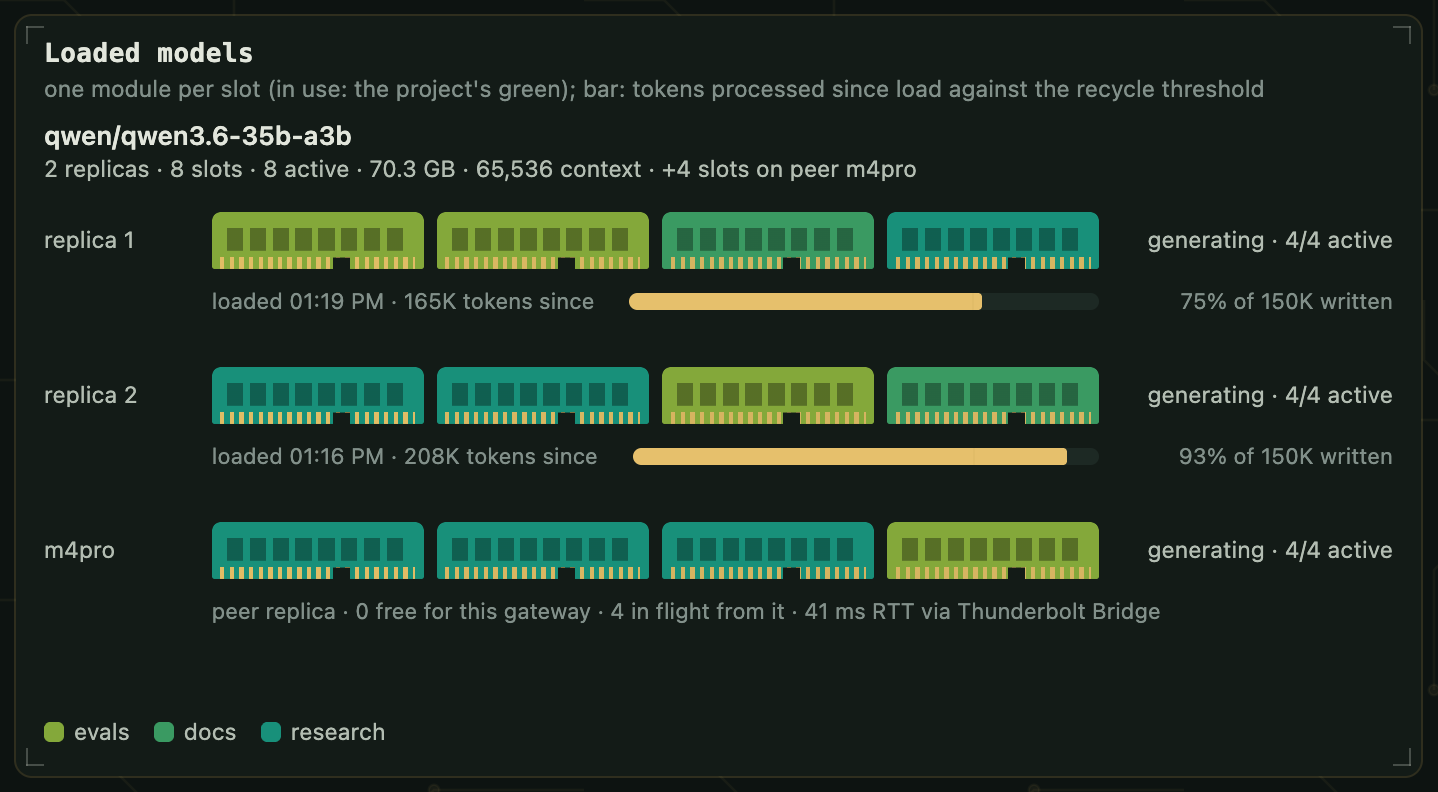
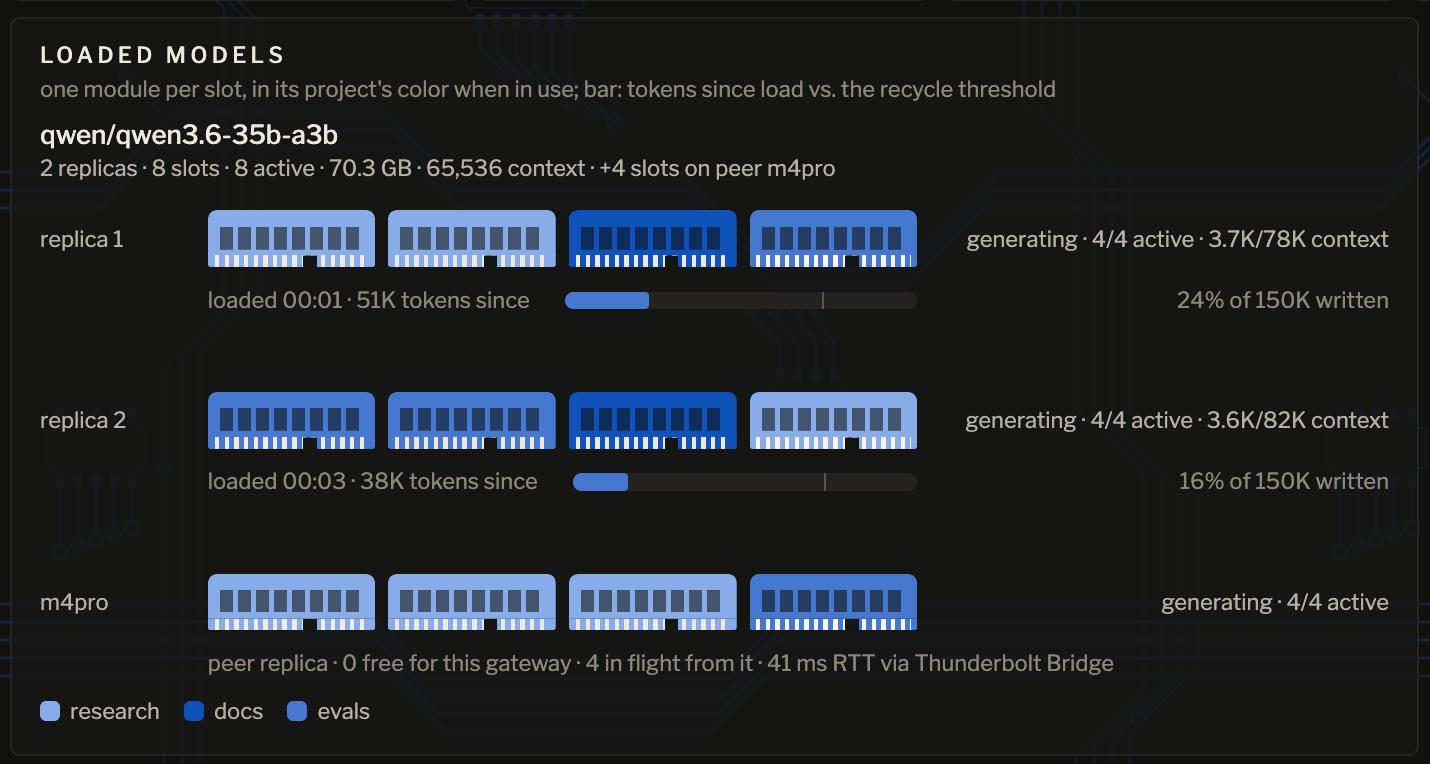
README pictures from a demo hour on the current dashboard, captions to match
Taken at 1512 x 900 and 1728 x 1117 in screenshot mode during
localmodels demo: 12 of 12 slots busy (8 on two replicas here, 4 on the
peer), four recycles, 2,424 requests answered, 769 by the peer.

diff --git a/README.md b/README.md
@@ -7,7 +7,7 @@ Reverse proxy, instance manager and MCP server for one LM Studio shared by every
 <picture>
   <source media="(prefers-color-scheme: dark)" srcset="docs/dashboard-dark.png">
   <source media="(prefers-color-scheme: light)" srcset="docs/dashboard-light.png">
-  <img alt="The dashboard during a synthetic workload: all 12 slots in use and 2 requests queued, across two replicas on this Mac and one on a peer Mac; tiles, slot modules in each project's color, time series of concurrency, throughput, requests and memory, and tables of clients, Claude Code sessions and recent requests" src="docs/dashboard-light.png">
+  <img alt="The dashboard during a synthetic workload: all 12 slots in use and 2 requests queued, across two replicas on this Mac and one on a peer Mac; tiles, slot modules drawn as memory modules in each project's color, time series of concurrency, throughput, requests and memory with recycles marked, and tables of clients with their runs' finish times, Claude Code sessions and recent requests" src="docs/dashboard-light.png">
 </picture>
 
 The dashboard at 1512 × 900 during `localmodels demo --minutes 60`: three synthetic batches keep all 12 slots busy, 8 on two replicas on the front Mac (M5 Max) and 4 on a peer (MacBook Pro M4 Pro, over Thunderbolt Bridge), with 2 more requests in the gateway's admission queue. Taken in screenshot mode (`localmodels present on`): every project other than the demo's and the hub's own shows as "other", and no session title shows. Full size: [dark](docs/dashboard-dark.png), [light](docs/dashboard-light.png); at 1728 × 1117: [dark](docs/dashboard-large-dark.png), [light](docs/dashboard-large-light.png).
@@ -20,24 +20,24 @@ Standard-library Python 3.9+, no third-party dependencies. macOS on Apple silico
 
 Close-ups from the same run.
 
-<img src="docs/models-dark.png" alt="Loaded models card: qwen/qwen3.6-35b-a3b, two replicas with 4 slots each and 4 slots on the peer m4pro, all in use and colored by project; replica 1 at 75% and replica 2 at 93% of 150K tokens written; the peer at 41 ms round-trip time via Thunderbolt Bridge">
+<img src="docs/models-dark.png" alt="Loaded models card: qwen/qwen3.6-35b-a3b, two replicas with 4 slots each and 4 slots on the peer m4pro, every slot a memory module in its project's color; replica 1 at 24% and replica 2 at 16% of 150K tokens written; the peer at 41 ms round-trip time via Thunderbolt Bridge">
 
-**Loaded models:** one module per slot, in the color of the project using it. Each local replica's bar is its progress to the recycle threshold, by tokens processed or written since load, whichever is further along (here written: 75% and 93% of 150K). The peer's row gives its free slots for this gateway, its requests in flight from it and the link's round-trip time.
+**Loaded models:** one module per slot, in the color of the project using it. Each local replica's bar is its progress to the recycle threshold, by tokens processed or written since load, whichever is further along (here written: 24% and 16% of 150K, both recycled a few minutes earlier). The peer's row gives its free slots for this gateway, its requests in flight from it and the link's round-trip time.
 
-<img src="docs/concurrency-dark.png" alt="Concurrent requests by project over an hour: research, evals and docs fill 12 slots, with dips to 8 at recycles, this Mac's marked by dotted lines, while the queued line rises from 2 to 6">
+<img src="docs/concurrency-dark.png" alt="Concurrent requests by project over an hour: research, docs and evals fill 12 slots against the dashed slots line, with dips at four recycles marked by dotted lines and named in the legend, while the queued line rises from 2 to about 6">
 
-**Concurrent requests, by project,** over the demo hour: 12 in flight, 2 waiting. Dotted lines mark this Mac's recycles (the unmarked dip at 1:23 PM is the peer recycling its own instance): while a replica drains and reloads, 8 run and the rest wait in the gateway's queue (the light line). All 3,127 requests of the hour returned 200, 898 of them served by the peer.
+**Concurrent requests, by project,** over the demo hour: 12 in flight, 2 waiting. Dotted lines mark this Mac's four recycles (each replica twice, at 150K to 160K tokens written; the unmarked dips are the peer recycling its own instance): while a replica drains and reloads, 8 run and the rest wait in the gateway's queue (the light line). All 2,424 requests of the hour returned 200, 769 of them served by the peer.
 
 <p>
-  <img src="docs/tiles-1-dark.png" width="823" alt="Dashboard tiles: 12 of 12 slots active; 2 queued; 275 tokens/s in the last minute; 2,992 requests in the last hour from 3 projects"><br>
-  <img src="docs/tiles-2-dark.png" width="679" alt="Dashboard tiles: memory 149 of 176 GB (m5max 106 of 128, m4pro 43 of 48); SoC load GPU 100%, CPU 21%, m4pro GPU 99%, CPU 10%; 1 Claude Code session working, 2 idle">
+  <img src="docs/tiles-1-dark.png" width="819" alt="Dashboard tiles: 12 of 12 slots active, evals done at about 00:26; 2 queued, both batch; 179 tokens/s in the last minute; 2,530 requests in the last hour from 4 projects"><br>
+  <img src="docs/tiles-2-dark.png" width="675" alt="Dashboard tiles: memory 148 of 176 GB (m5max 105 of 128, m4pro 43 of 48); SoC load GPU 87%, CPU 77%, m4pro GPU 99%, CPU 8%; 1 Claude Code session working, 14 idle">
 </p>
 
 **Tiles:** requests in flight against every slot the gateway can use (local and peer), the admission queue, throughput, requests in the last hour, memory as one pool across both Macs, GPU and CPU load per Mac, and Claude Code sessions.
 
-<img src="docs/clients-dark.png" alt="Clients card: the docs batch, 2 active and 1 queued for 59 minutes, with batch and job progress bars at 1271 of 1305, 2 min left, done about 01:36 PM">
+<img src="docs/clients-dark.png" alt="Clients card: the evals, docs and research batches, each running for 58 minutes, each with its run on one line: answer grading 768 of 989, summaries 1018 of 1311 and consistency check 636 of 818, each about 18 minutes from done, finishing at about 00:25 to 00:26">
 
-**Clients:** each process with a request in flight or a lease, with its run's progress (`X-Run`) and its phase's (`X-Phase`, or `X-Step: <phase> N of M`), each with the remaining time and a finish time measured from the run's own throughput; a run in phases adds a strip with every phase, done, at work or to come, each with its estimate.
+**Clients:** each process with a request in flight or a lease, with its run's progress (`X-Run`) and its phase's (`X-Phase`, or `X-Step: <phase> N of M`) on a line each: a bar, done of total, the remaining time and a finish time measured from the run's own throughput. A phase about as large as the whole run (as here) is not repeated; a run declared in phases draws one segment per phase in its bar, and with more than one phase a line with each phase's estimate.
 
 ## Features
 
